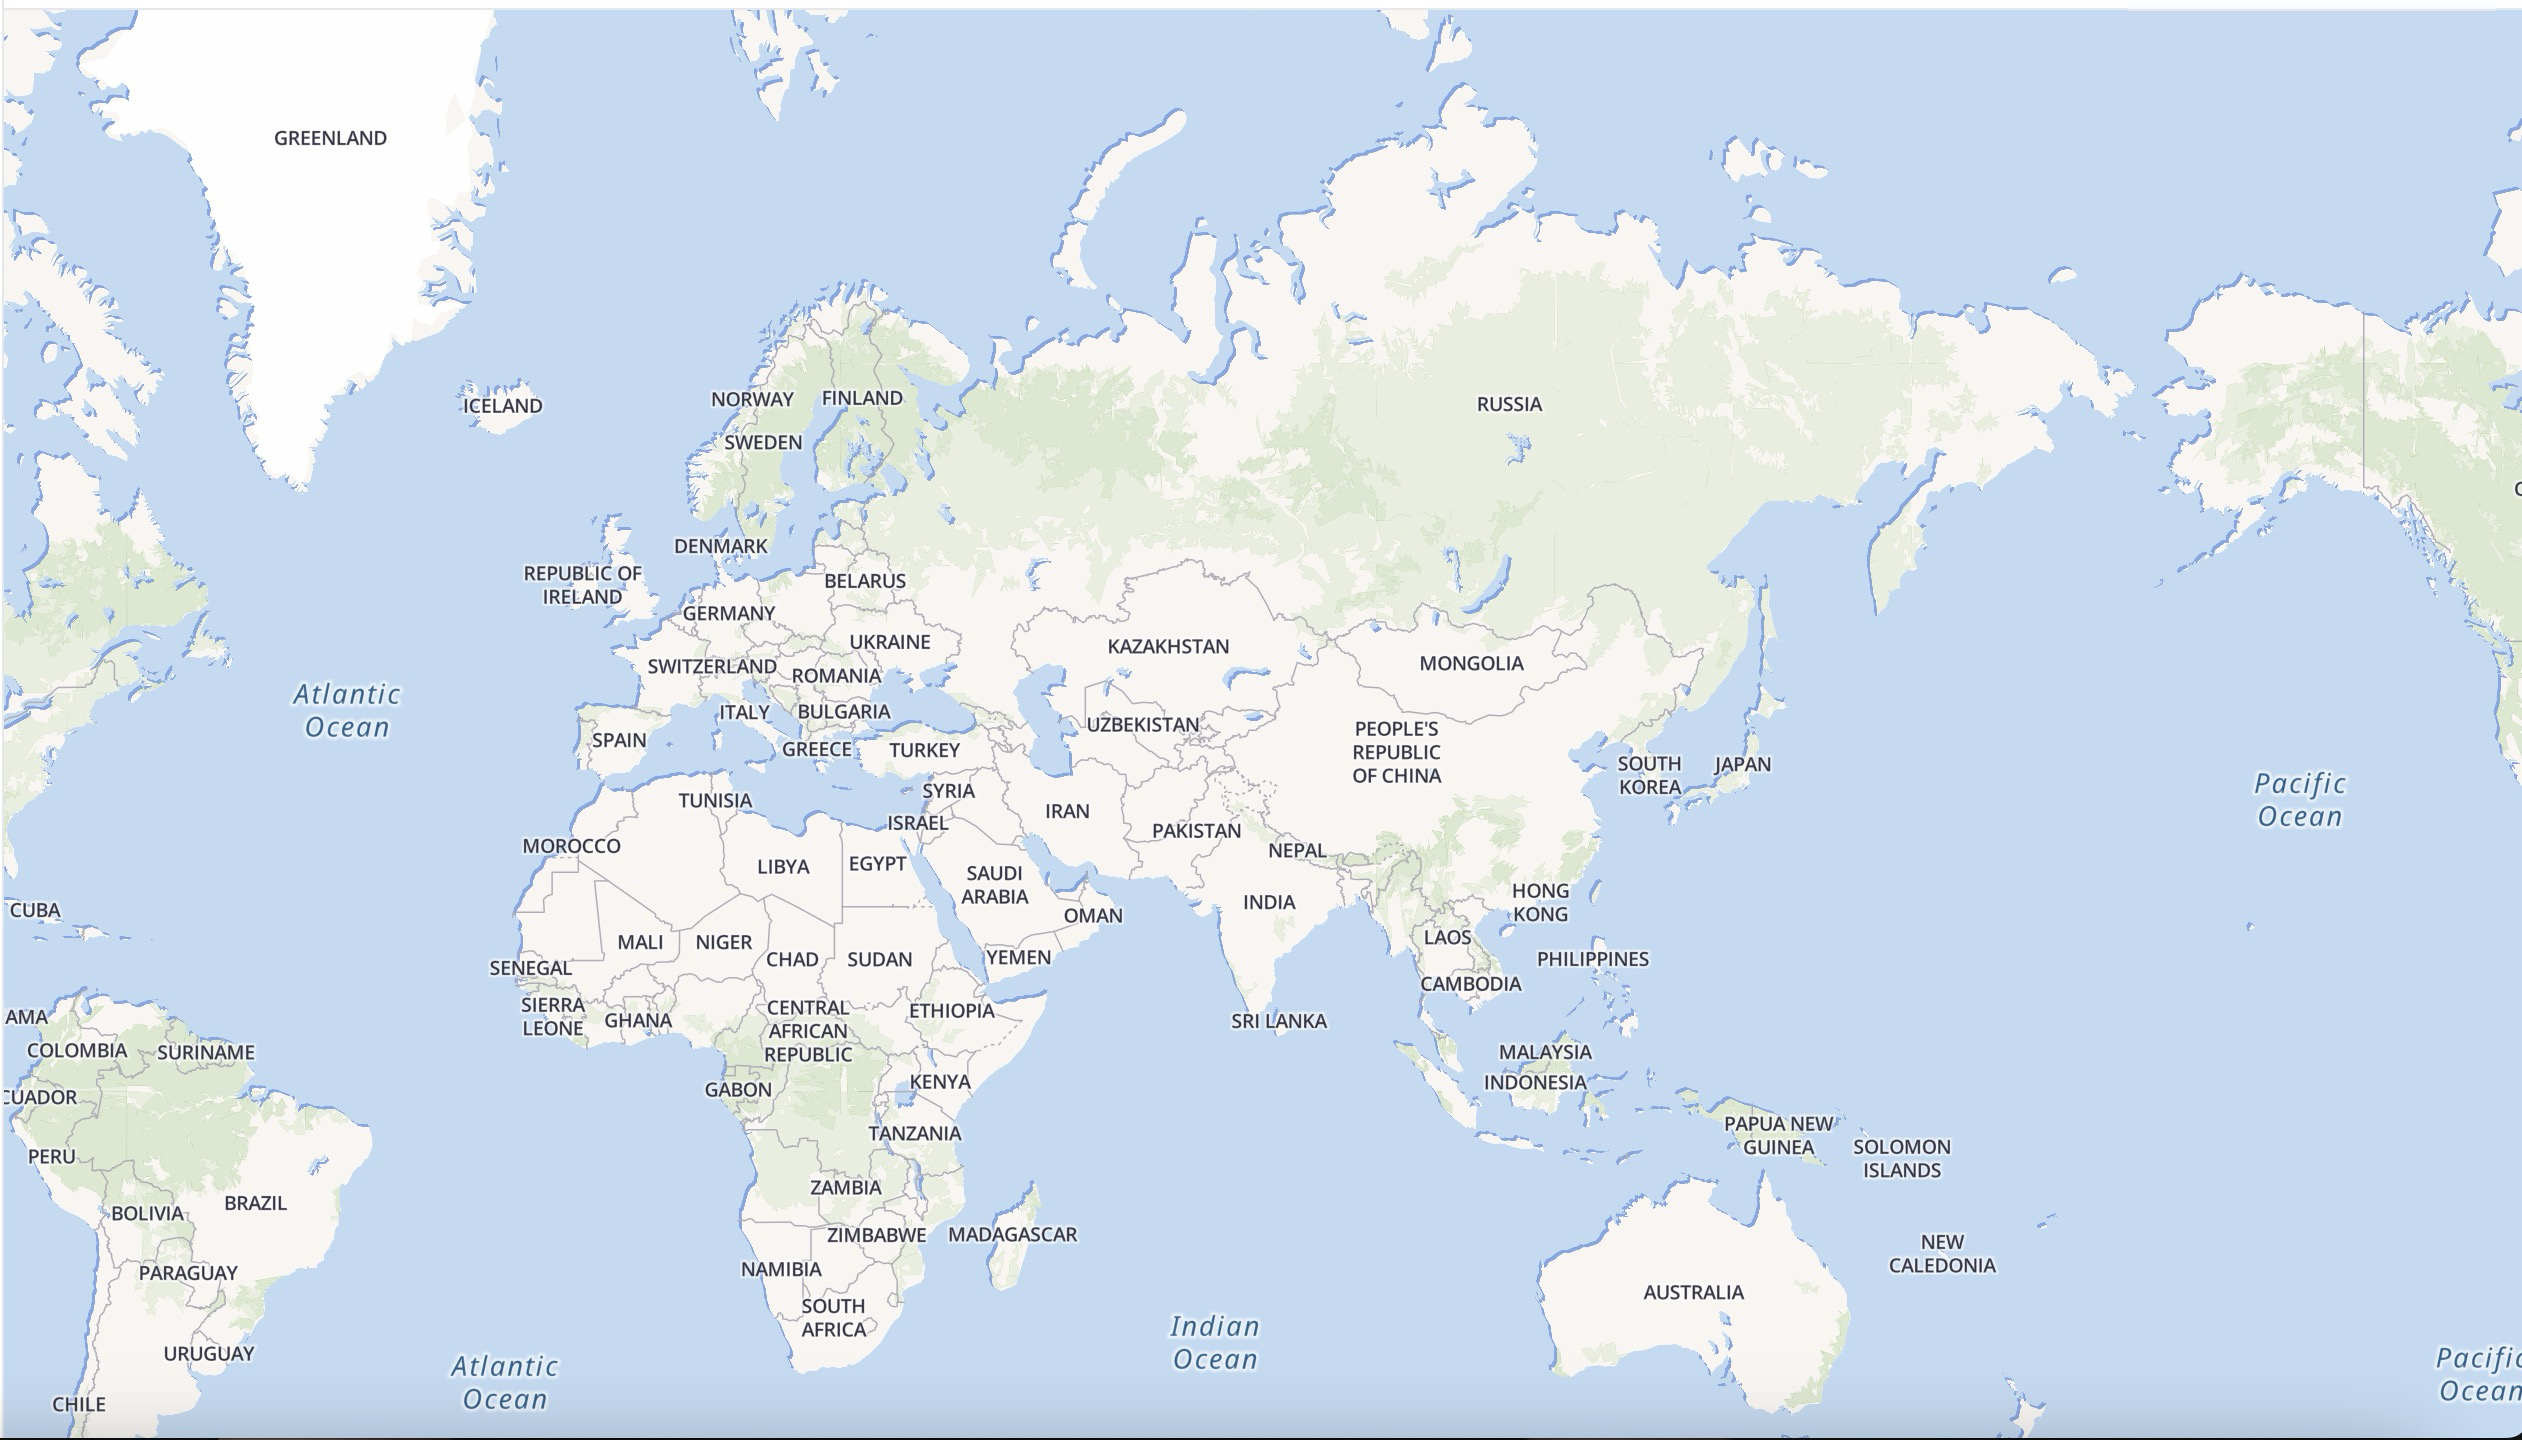
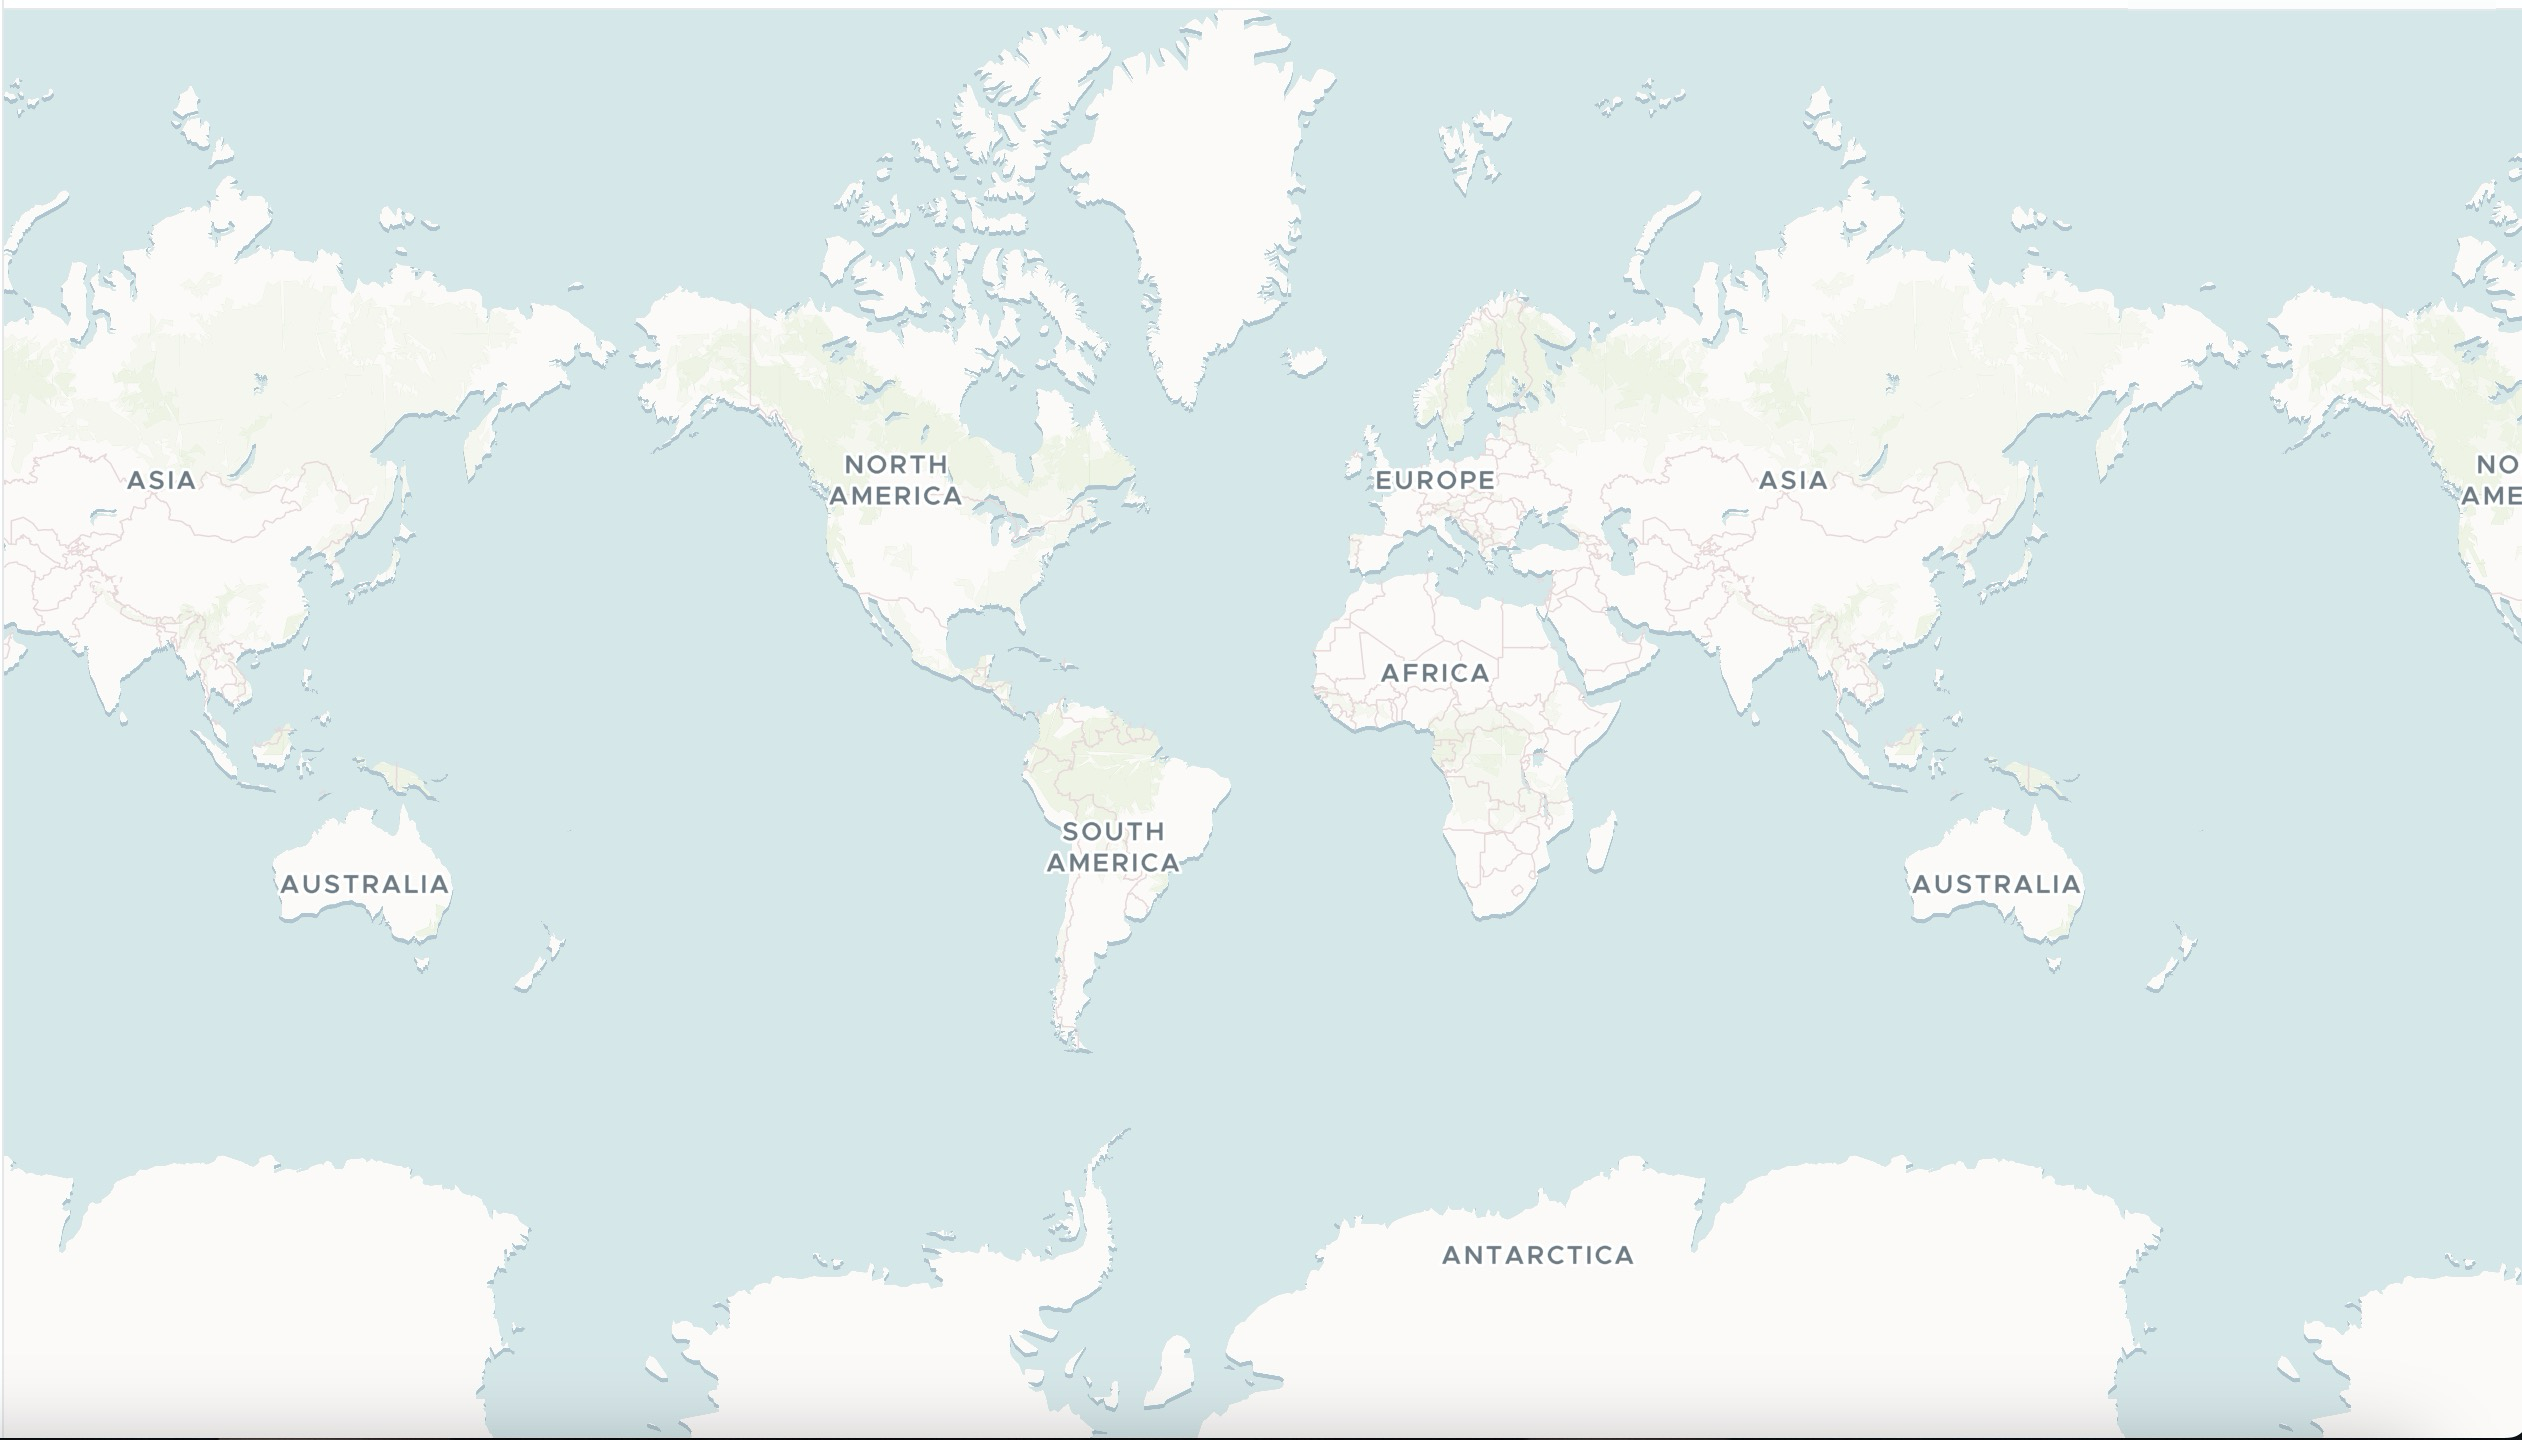
fix chart and MapLibre theme (#15)
* fix use shallowRef

* fix MapLibre theme

diff --git a/composables/useMap.ts b/composables/useMap.ts
@@ -18,8 +18,8 @@ export const useMap = (type: MapType, config: Partial<IMapConfig<{}>> = {},) => 
   // get gaode and tencent and baidu maps tokens
   const { public: { map: { gaode, baidu, tencent, mapLibre, mapbox } } } = useRuntimeConfig()
 
-  const mapInstance = ref<MapInstanceType>()
-  const scene = ref<Scene>()
+  const mapInstance = shallowRef<MapInstanceType>()
+  const scene = shallowRef<Scene>()
 
   // initialize the map themes
   const themesConfig = computed(() => {
@@ -29,8 +29,8 @@ export const useMap = (type: MapType, config: Partial<IMapConfig<{}>> = {},) => 
       .set(MapType.BAIDU, { dark: '344b005fd5b4220a55241c25e7733e81', light: 'c17b1c2b528429a7b04bbc8d3eb8bae9' })
       .set(MapType.MAPBOX, { dark: 'mapbox://styles/mapbox/dark-v11', light: 'mapbox://styles/mapbox/light-v11' })
       .set(MapType.MAPLIBRE, {
-        dark: `https://api.maptiler.com/maps/bright-v2/style.json?key=${mapLibre.token}`,
-        light: `https://api.maptiler.com/maps/bright-v2/style.json?key=${mapLibre.token}`
+        dark: `https://api.maptiler.com/maps/dataviz-dark/style.json?key=${mapLibre.token}`,
+        light: `https://api.maptiler.com/maps/dataviz/style.json?key=${mapLibre.token}`
       })
   })
 

diff --git a/composables/useChart.ts b/composables/useChart.ts
@@ -15,24 +15,23 @@ export function useChartRender(hook?: (chart: ReturnType<typeof useChart>) => vo
   const hasRendered = ref(false)
   const colorMode = useColorMode()
   const { createObserver } = useObserver()
-  let g2: ReturnType<typeof useChart>
-  // bug G2 Instance use ref 
+  const g2 = shallowRef<ReturnType<typeof useChart>>()
   const renderChart = async () => {
     if (hasRendered.value) return
-    if (g2) g2.destroy()
-    g2 = useChart({
+    if (g2.value) g2.value.destroy()
+    g2.value = useChart({
       container: container.value!,
       autoFit: true
     })
     if (hook)
-      hook(g2)
-    await g2.render()
+      hook(g2.value)
+    await g2.value.render()
     hasRendered.value = true
   }
 
   //TODO: Set chart Theme
   watch(colorMode, () => {
-
+   
   })
   onMounted(() => {
     createObserver(container.value!, async () => {

diff --git a/composables/useSheet.ts b/composables/useSheet.ts
@@ -31,7 +31,7 @@ export function useSheetRender(sheetType: SheetType = 'pivot') {
   const container = ref<HTMLElement>()
   const dataCfg = ref<S2DataConfig>()
   const options = ref<S2Options<TooltipContentType, Pagination, string | Element, string>>()
-  const s2 = ref<PivotSheet | TableSheet>()
+  const s2 = shallowRef<PivotSheet | TableSheet>()
   const hasRendered = ref(false)
   const colors = ref<ColorInput>()
   const colorMode = useColorMode()

diff --git a/pages/index.vue b/pages/index.vue
@@ -42,7 +42,7 @@ const previews = computed(() => {
   }, {
     title: 'AntV L7 MapLibre Map',
     image: {
-      src: `/images/antv/light/l7/map-libre.png`,
+      src: `/images/antv/${colorMode.value}/l7/map-libre.png`,
       alt: 'AntV L7 MapLibre Map'
     },
     url: '/antv/l7/maplibremap'
